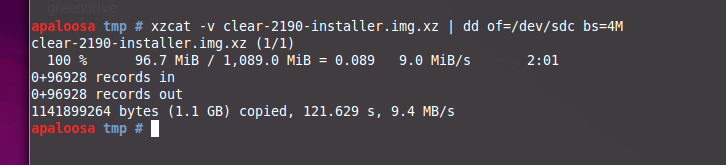
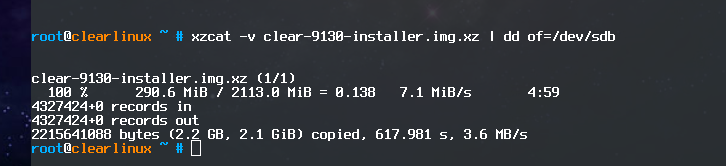
update example creating bootable usb
This example removes the `bs=4M` part of the dd command using also
a newer installer image (clear-9130-installer.img.xz)

diff --git a/source/gs_creating_bootable_usb.rst b/source/gs_creating_bootable_usb.rst
@@ -58,8 +58,8 @@ may need to be done as root::
 Wait for the final confirmation
 ===============================
 
-This example shows ``clear-2190-installer.img.xz`` flashed to a 16GB USB drive
-mounted on ``/sdc``.
+This example shows ``clear-9130-installer.img.xz`` flashed to a 16GB USB drive
+mounted on ``/sdb``.
 
 .. image:: _static/images/gs_confirmation_screen.png
    :align: center
